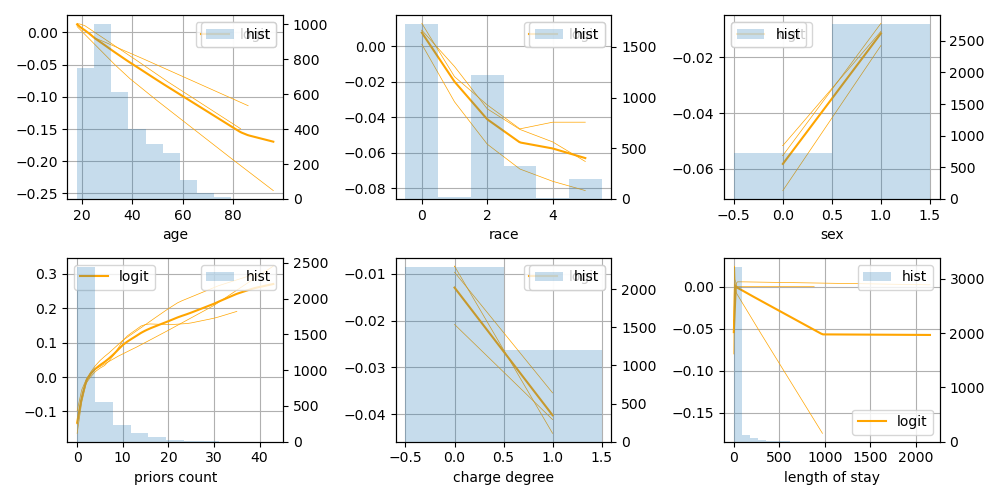
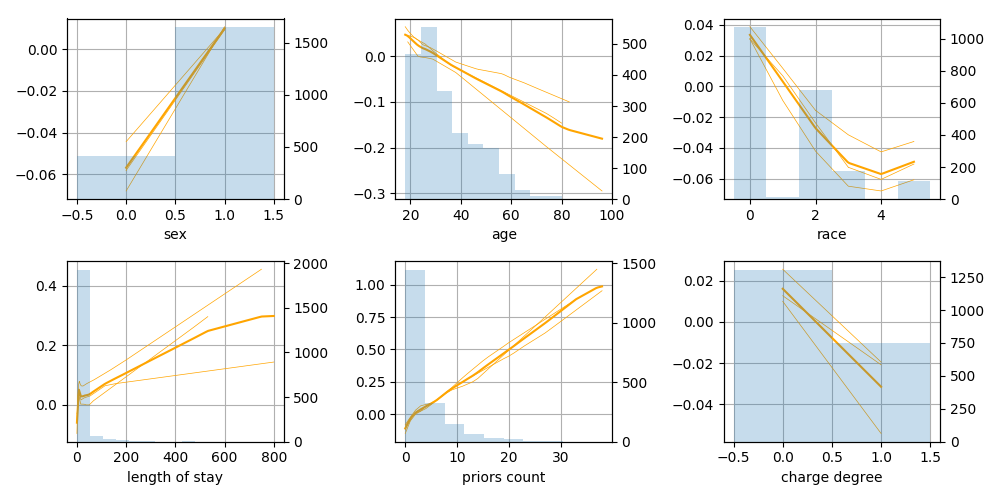
using responsible dataset

diff --git a/demo.py b/demo.py
@@ -1,13 +1,43 @@
 import numpy as np
 import pandas as pd
+
+from sklearn.preprocessing import LabelEncoder
 from sklearn.model_selection import KFold
+
 from nam import NAM
 from utils import CompasData, train_model, eval_model
 from plots import plot_roc_curve, plot_shape_functions
+from responsibly.dataset import COMPASDataset
+
+def load_data():
+    # Fetch data and subset columns
+    cols = ['sex', 'age','race', 'length_of_stay', 'priors_count', 'c_charge_degree', 'is_recid']
+    compas = COMPASDataset()
+    compas = compas.df
+    compas = compas[cols]
+
+    # Get length of stay in days
+    compas['length_of_stay'] /= np.timedelta64(1, 'D')
+    compas['length_of_stay'] = np.ceil(compas['length_of_stay'])
+
+    # Rename column
+    compas = compas.rename(columns = {'c_charge_degree' : 'charge_degree'})
+    return compas
+
+
+def encode_data(data):
+    encoders = {}
+    for col in ['race', 'sex', 'charge_degree']:
+        encoders[col] = LabelEncoder().fit(data[col])
+        data.loc[:,col] = encoders[col].transform(data[col])    
+    return data, encoders
+
 
 def main():
-    data = pd.read_csv('./data/compas/compas.csv')  
+    data = load_data()
     cols = data.columns
+
+    data, encoders = encode_data(data)
     X = data.iloc[:,:-1].values
     y = data.iloc[:, -1].values
 

diff --git a/plots.py b/plots.py
@@ -1,5 +1,7 @@
-import numpy as np
+import matplotlib
+matplotlib.use('TkAgg')
 import matplotlib.pyplot as plt
+import numpy as np
 from sklearn.metrics import roc_curve, auc
 
 def plot_roc_curve(preds, targets, fname = './results/roc_curve.png'):

diff --git a/prep_data.py b/prep_data.py
@@ -3,7 +3,7 @@ import pickle as pkl
 import numpy as np
 import pandas as pd
 from sklearn.preprocessing import LabelEncoder
-
+from responsibly.dataset import COMPASDataset
 
 def fetch_data(fname):
     # Establish connection
